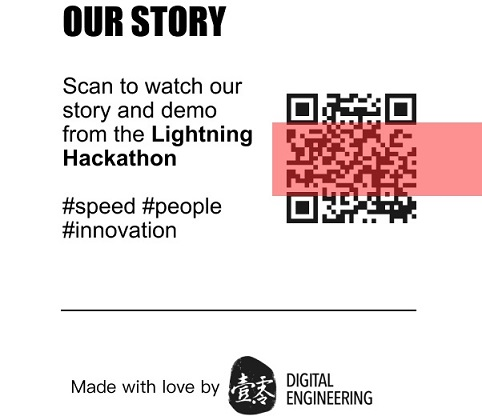
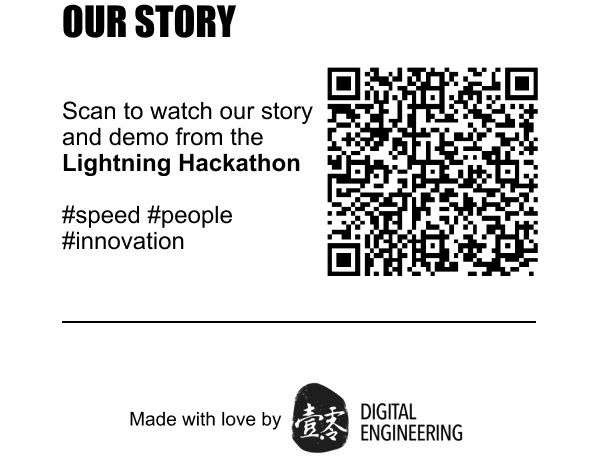
15-1

diff --git a/src/printer/index.js b/src/printer/index.js
@@ -355,13 +355,13 @@ export const drawImage_v2 = (arr, name) => {
           console.log("image_header",image_header.width,image_header.height);
           console.log("image_boot",image_boot.width,image_boot.height);
           let x=0.8;
-          let y=-20;//30
+          let y=-33;//30
           canvas.width = 600;//935
           let fixLeng =60+45+60+60+45+80+80+100+10+arr.length * 45+45+45+60+100+10+wishs.weSay.length*45+50+80+45;
           canvas.height = image_header.height +image_boot.height+fixLeng*0.8;//+ 800 + arr.length * 45+wishs.weSay.length*45
           context = canvas.getContext("2d");
           
-          context.drawImage(image_header, 20+y, 0);
+          context.drawImage(image_header, 42+y, 0);
           context.beginPath();
         
           context.font = "400 25px PingFang HK";
@@ -375,8 +375,8 @@ export const drawImage_v2 = (arr, name) => {
           context.fillText("Guangzhou,China", 80+y, len);
 
           len += 60*x
-          context.font = "25px PingFang HK";
-          context.fillText("—————————————————", 80+y, len);
+          context.font = "23px PingFang HK";
+          context.fillText("———————————————————", 80+y, len);
 
           len += 60*x
           context.font = "700 25px Arial";
@@ -390,7 +390,7 @@ export const drawImage_v2 = (arr, name) => {
           len += 80*x;
           context.font = "25px PingFang HK";
           context.textAlign = "start";
-          context.fillText("///////////////////////////////////////////",  80+y, len);
+          context.fillText("/////////////////////////////////////////////",  80+y, len);
 
           len += 80*x;
           context.textAlign = "start";
@@ -411,14 +411,14 @@ export const drawImage_v2 = (arr, name) => {
 
           len += 45*x;
           context.font = "80px 黑体";
-          context.fillText("”",  500+y, len);
+          context.fillText("”",  520+y, len);
 
          
           len += 45*x     
-          context.font = "25px PingFang HK";
+          context.font = "23px PingFang HK";
           context.textAlign = "start";   
                              
-          context.fillText("—————————————————", 80+y, len);
+          context.fillText("———————————————————", 80+y, len);
 
           len += 60*x
           context.textAlign = "start";
@@ -440,12 +440,12 @@ export const drawImage_v2 = (arr, name) => {
 
           len += 50*x;
           context.font = "80px 黑体";
-          context.fillText("”", 500+y, len);
+          context.fillText("”", 520+y, len);
 
           len += 80*x;
           context.font = "25px PingFang SC";
           context.textAlign = "start";
-          context.fillText("///////////////////////////////////////////", 80+y, len);
+          context.fillText("/////////////////////////////////////////////", 80+y, len);
 
           len += 45*x;
           // context.fillText("      ", 295, len);
